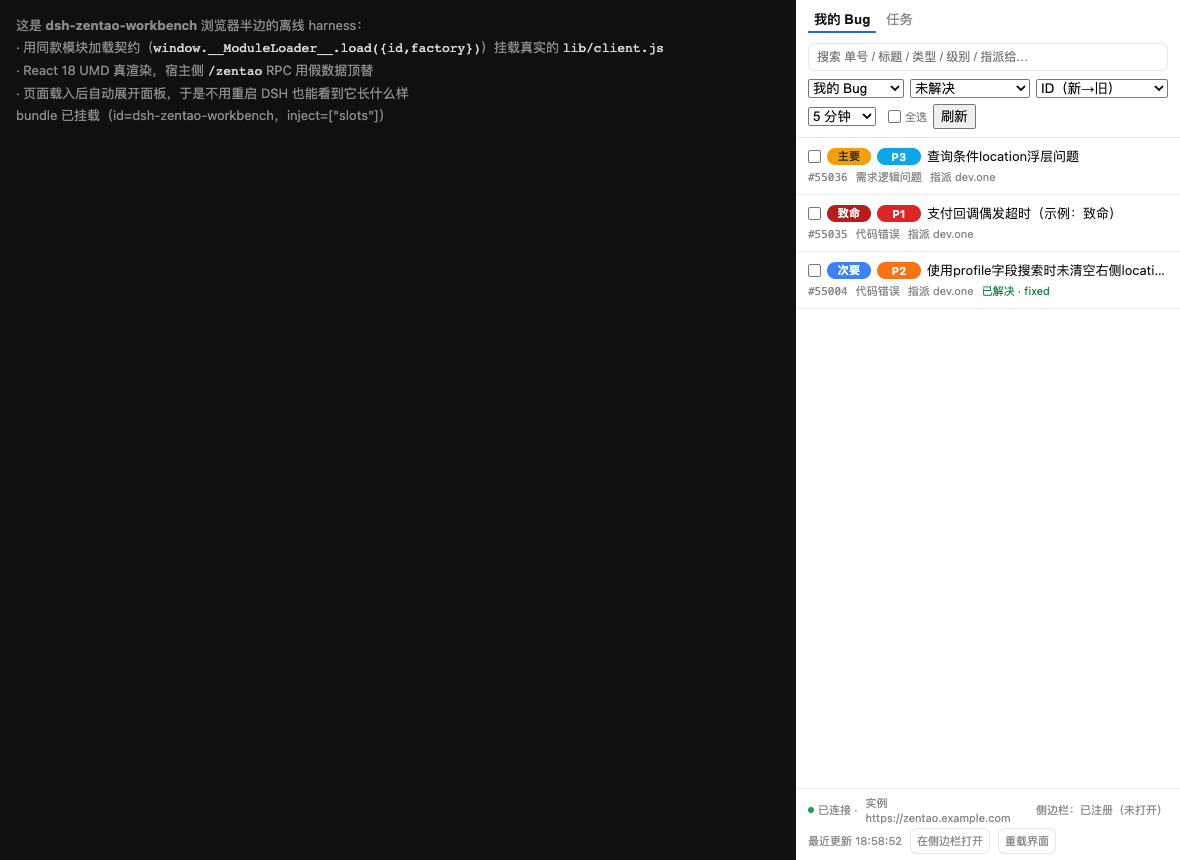
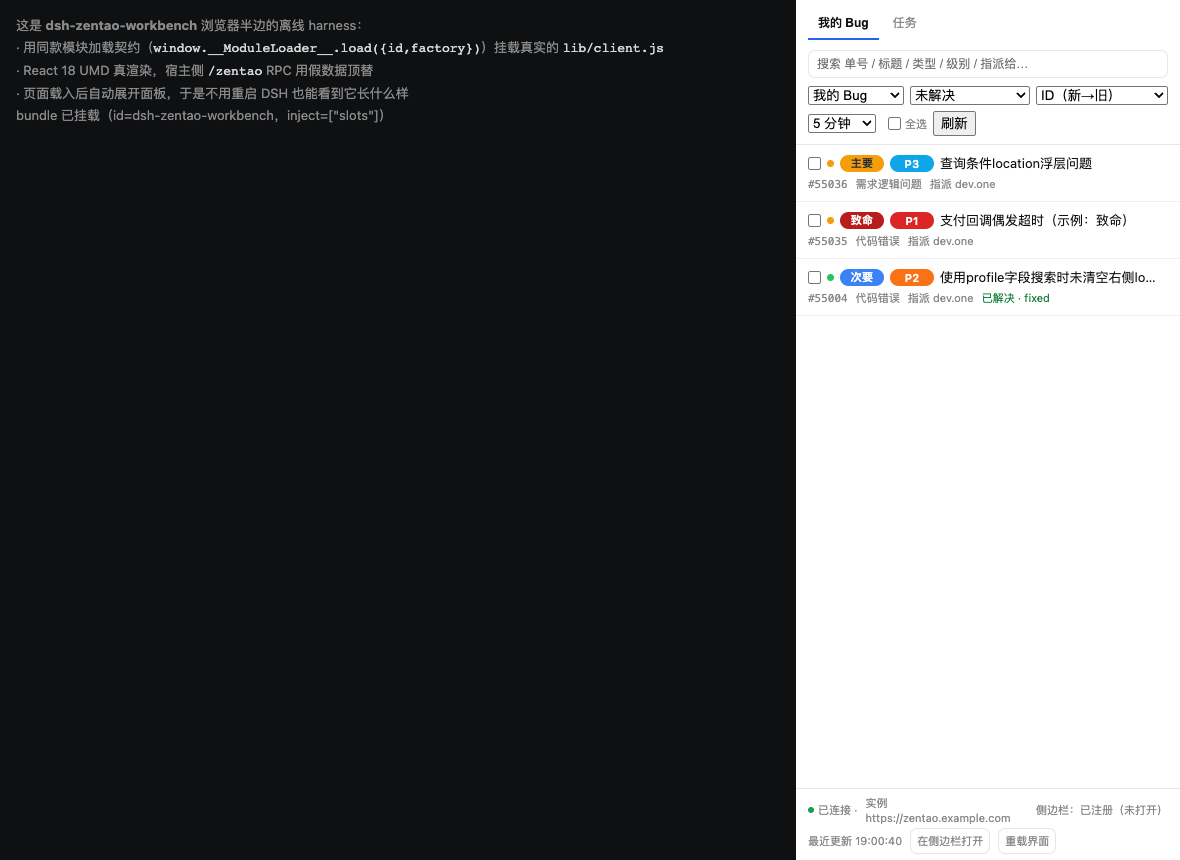
UI 再打磨：列表行重排 + 状态点 + 勾选高亮 + 页签分段控件 + 详情 chips
用户要求「列表再打磨，UI 再优化」。本轮都是观感与信息层级，不改行为。

列表：
- 行改**两行结构**：第一行 = 复选框 · 状态点 · 级别胶囊 · P 胶囊 · 标题 · hover 出现的 ›；
  第二行 = `#单号`（等宽字体） · 类型 · 指派 · 已解决·方案；
- 新增**状态点**（未解决=琥珀、已解决=绿，tooltip 说明），替代原来靠文字判断；
- **勾选行整行淡蓝高亮**（`.zt-row-on`），多选时一眼看出选了哪些；
- 行 hover 高亮 + 行尾出现 `›` 提示可点开；
- **空态**：区分"没取到 Bug（查登录/范围）"、"这一页没有符合条件的"、"没有匹配「关键词」的 Bug"。

整体：
- 页签（我的 Bug / 任务）从纯文本按钮改为**分段控件**（hover 底色 + 选中下划线加粗），
  样式移进 PANEL_CSS（内联样式表达不了 hover/选中态）；
- 详情的「必填：A、B、C」长句改为 **chips**：`必填 4`（警示色）+ 每个必填项一个 chip +
  `下拉 254/892/892` 一个 chip（tooltip 说明含义）——信息密度更高、不再是三行文字；
- 描述改为圆角卡片（`.zt-desc`，浅底 + 10px 圆角），历史改为**左侧竖线**样式（`.zt-hist`），
  与正文层次分明。

验证（真浏览器）：3 行 3 个状态点、勾选后 `.zt-row-on` 命中且批量栏出现、动作区仍在描述之上、
P 徽章三色、计划字段 HTML 按标签渲染且页面无裸标签、样式表注入、无页面报错。
vitest 113/113（断言同步到 chips 版文案）。截图 docs/panel-list-polish.png、docs/panel-ui-polish.png。

Changed region(s): [[0.6712, 0.0, 1.0, 0.3628], [0.7322, 0.9674, 0.7627, 0.9977]]

diff --git a/lib/client.js b/lib/client.js
@@ -380,6 +380,22 @@ const PANEL_CSS = `
 .zt-sec { padding: 10px 12px; border-bottom: 1px solid var(--dsw-alias-border-l1, #eceff3); }
 .zt-label { font-size: 11px; color: var(--dsw-alias-label-secondary, #888); margin-bottom: 4px; }
 .zt-actions { display: flex; gap: 6px; flex-wrap: wrap; align-items: center; }
+.zt-tabs { display: flex; gap: 2px; padding: 6px 10px 0; }
+.zt-tab { border: none; background: none; color: var(--dsw-alias-label-secondary, #888); font-size: 12px; padding: 6px 10px 7px; cursor: pointer; border-bottom: 2px solid transparent; border-radius: 6px 6px 0 0; }
+.zt-tab:hover { background: color-mix(in srgb, var(--dsw-alias-label-primary, #111) 5%, transparent); }
+.zt-tab-on { color: var(--dsw-alias-label-primary, #111); font-weight: 600; border-bottom-color: #2563eb; }
+.zt-dot { width: 7px; height: 7px; border-radius: 999px; flex: 0 0 auto; }
+.zt-dot-open { background: #f59e0b; }
+.zt-dot-done { background: #22c55e; }
+.zt-row-on { background: color-mix(in srgb, #2563eb 8%, transparent); }
+.zt-chev { opacity: 0; transition: opacity .12s ease; color: var(--dsw-alias-label-secondary, #888); font-size: 12px; }
+.zt-row:hover .zt-chev { opacity: 1; }
+.zt-chips { display: flex; gap: 6px; flex-wrap: wrap; align-items: center; margin-top: 4px; }
+.zt-chip { display: inline-flex; align-items: center; gap: 4px; height: 20px; padding: 0 8px; border-radius: 6px; font-size: 11px; background: color-mix(in srgb, var(--dsw-alias-label-primary, #111) 5%, transparent); color: var(--dsw-alias-label-secondary, #777); }
+.zt-chip-warn { background: color-mix(in srgb, #f59e0b 18%, transparent); color: #92400e; }
+.zt-hist { margin-top: 6px; padding-left: 8px; border-left: 2px solid var(--dsw-alias-border-l1, #eceff3); color: var(--dsw-alias-label-secondary, #888); font-size: 11px; line-height: 1.6; }
+.zt-desc { font-size: 12px; line-height: 1.65; border: 1px solid var(--dsw-alias-border-l1, #eceff3); border-radius: 10px; padding: 10px 12px; overflow-x: auto; background: color-mix(in srgb, var(--dsw-alias-label-primary, #111) 2%, transparent); }
+.zt-empty { padding: 28px 16px; text-align: center; color: var(--dsw-alias-label-secondary, #888); font-size: 12px; line-height: 1.8; }
 .zt-bar { display: flex; gap: 6px; align-items: center; flex-wrap: wrap; padding: 8px 12px; border-bottom: 1px solid var(--dsw-alias-border-l1, #eceff3); }
 `;
 const ROLE_PRESETS = [
@@ -923,15 +939,9 @@ function ZentaoPanel(deps) {
             type: 'button',
             'data-zentao-tab': value,
             onClick: () => setTab(value),
-            style: {
-                cursor: 'pointer',
-                border: 'none',
-                background: 'none',
-                color: tab === value ? TOKEN.text : TOKEN.dim,
-                fontWeight: tab === value ? 600 : 400,
-                borderBottom: tab === value ? `2px solid ${TOKEN.accent}` : '2px solid transparent',
-                padding: '2px 6px',
-            },
+            className: tab === value ? 'zt-tab zt-tab-on' : 'zt-tab',
+            // 样式（hover/选中态）在 PANEL_CSS 里，内联样式表达不了。
+            style: { cursor: 'pointer' },
         }, value === 'bugs' ? '我的 Bug' : '任务'))));
         if (tab === 'tasks') {
             body.push((0, react_1.createElement)('div', { key: 'tasks', 'data-zentao-tasks': '1', style: { padding: '10px 12px', flex: 1, minHeight: 0, overflowY: 'auto' } }, ...tasks.map((task) => (0, react_1.createElement)('div', { key: task.id, style: { padding: '6px 0', borderBottom: `1px solid ${TOKEN.line}` } }, (0, react_1.createElement)('div', null, `#${task.id} ${task.name}`), (0, react_1.createElement)('div', { style: { color: TOKEN.dim, fontSize: 11 } }, `${task.status || '-'} · 指派 ${task.assignedTo || '-'}`))), tasks.length === 0
@@ -1103,16 +1113,16 @@ function ZentaoPanel(deps) {
                     target: '_blank',
                     rel: 'noreferrer',
                     style: { color: TOKEN.accent },
-                }, selected.bug.story ?? '')), detailActions, (0, react_1.createElement)('div', { style: { fontSize: 12 } }, `必填：${selected.resolve.fields.filter((field) => field.required).map((field) => field.label).join('、')}`), (0, react_1.createElement)('div', { style: { fontSize: 12, color: TOKEN.dim, marginTop: 2 } }, `下拉规模 ${selected.resolve.optionCounts.resolvedBuild}/${selected.resolve.optionCounts.bugInchargedBy}/${selected.resolve.optionCounts.assignedTo}（已收敛）`), ...(richDescription.trim() === ''
+                }, selected.bug.story ?? '')), detailActions, (0, react_1.createElement)('div', { className: 'zt-chips' }, (0, react_1.createElement)('span', { className: 'zt-chip zt-chip-warn', title: '服务端必填项数量' }, `必填 ${selected.resolve.fields.filter((field) => field.required).length}`), ...selected.resolve.fields.filter((field) => field.required).map((field) => (0, react_1.createElement)('span', { key: field.name, className: 'zt-chip' }, field.label)), (0, react_1.createElement)('span', { className: 'zt-chip', title: '下拉规模：解决版本 / Bug所属人 / 指派给' }, `下拉 ${selected.resolve.optionCounts.resolvedBuild}/${selected.resolve.optionCounts.bugInchargedBy}/${selected.resolve.optionCounts.assignedTo}`)), ...(richDescription.trim() === ''
                 ? []
                 : [(0, react_1.createElement)('div', { key: 'desc', style: { marginTop: 8 } }, (0, react_1.createElement)('div', { style: { color: TOKEN.dim, fontSize: 11, marginBottom: 2 } }, '描述（富文本，图片已内联）'), (0, react_1.createElement)('div', {
                         // Sanitised host-side (scripts/handlers/javascript: removed) and
                         // rendered as HTML so tables, lists and screenshots show properly.
                         'data-zentao-description': '1',
                         dangerouslySetInnerHTML: { __html: richDescription },
-                        style: { fontSize: 12, lineHeight: 1.6, border: `1px solid ${TOKEN.line}`, borderRadius: 6, padding: '8px 10px', overflowX: 'auto' },
+                        className: 'zt-desc',
                     }, null))]), ...(selected.histories.length > 0
-                ? [(0, react_1.createElement)('div', { key: 'hist', style: { marginTop: 6, fontSize: 12, color: TOKEN.dim } }, (0, react_1.createElement)('div', { style: { fontSize: 11, marginBottom: 2 } }, '最近动态（按 HTML 渲染）'), ...selected.histories.map((line, index) => (0, react_1.createElement)('div', {
+                ? [(0, react_1.createElement)('div', { key: 'hist', className: 'zt-hist' }, (0, react_1.createElement)('div', { style: { fontSize: 11, marginBottom: 2, opacity: .8 } }, '最近动态'), ...selected.histories.map((line, index) => (0, react_1.createElement)('div', {
                         key: index,
                         // Rendered, not escaped: the host already stripped scripts and
                         // handlers, and the point is that a diff's markup shows as markup.
@@ -1124,7 +1134,9 @@ function ZentaoPanel(deps) {
                 key: 'list',
                 'data-zentao-list': '1',
                 style: { position: 'absolute', inset: 0, overflowY: 'auto' },
-            }, ...visibleBugs.map((bug) => (0, react_1.createElement)('div', {
+            }, ...(visibleBugs.length > 0 ? [] : [(0, react_1.createElement)('div', { key: 'empty', className: 'zt-empty' }, search.trim() === ''
+                    ? (bugs.length === 0 ? '没有取到 Bug（检查登录状态或范围）' : '这一页没有符合条件的 Bug')
+                    : `没有匹配「${search.trim()}」的 Bug`)]), ...visibleBugs.map((bug) => (0, react_1.createElement)('div', {
                 key: bug.id,
                 'data-zentao-bug': bug.id,
                 draggable: true,
@@ -1136,7 +1148,7 @@ function ZentaoPanel(deps) {
                     }));
                 },
                 onClick: () => void openDetail(bug.id),
-                className: 'zt-row',
+                className: checked.includes(bug.id) ? 'zt-row zt-row-on' : 'zt-row',
             }, (0, react_1.createElement)('div', { style: { display: 'flex', gap: 6, alignItems: 'center' } }, (0, react_1.createElement)('input', {
                 type: 'checkbox',
                 'data-zentao-check': bug.id,
@@ -1146,7 +1158,10 @@ function ZentaoPanel(deps) {
                 onClick: (event) => event.stopPropagation?.(),
                 onChange: () => toggleChecked(bug.id),
                 style: { cursor: 'pointer', margin: 0 },
-            }), severityBadge(bug.severity || '', bug.severityLevel), priBadge(bug.pri), (0, react_1.createElement)('span', { style: { flex: 1, overflow: 'hidden', textOverflow: 'ellipsis', whiteSpace: 'nowrap' } }, bug.title)), (0, react_1.createElement)('div', { className: 'zt-meta' }, (0, react_1.createElement)('span', { className: 'zt-id' }, `#${bug.id}`), (0, react_1.createElement)('span', null, bug.type || '未分类'), (0, react_1.createElement)('span', null, `指派 ${bug.assignedTo || '未指派'}`), bug.resolution === '' ? null : (0, react_1.createElement)('span', { className: 'zt-ok' }, `已解决 · ${bug.resolution}`))))), detailOverlay));
+            }), (0, react_1.createElement)('span', {
+                className: bug.resolution === '' ? 'zt-dot zt-dot-open' : 'zt-dot zt-dot-done',
+                title: bug.resolution === '' ? '未解决' : `已解决（${bug.resolution}）`,
+            }, null), severityBadge(bug.severity || '', bug.severityLevel), priBadge(bug.pri), (0, react_1.createElement)('span', { style: { flex: 1, overflow: 'hidden', textOverflow: 'ellipsis', whiteSpace: 'nowrap' } }, bug.title), (0, react_1.createElement)('span', { className: 'zt-chev' }, '›')), (0, react_1.createElement)('div', { className: 'zt-meta' }, (0, react_1.createElement)('span', { className: 'zt-id' }, `#${bug.id}`), (0, react_1.createElement)('span', null, bug.type || '未分类'), (0, react_1.createElement)('span', null, bug.assignedTo ? `指派 ${bug.assignedTo}` : '未指派'), bug.resolution === '' ? null : (0, react_1.createElement)('span', { className: 'zt-ok' }, `已解决 · ${bug.resolution}`))))), detailOverlay));
         }
     }
     const stamp = lastUpdated === null ? '尚未刷新' : `最近更新 ${lastUpdated.toLocaleTimeString()}`;

diff --git a/src/client/panel.ts b/src/client/panel.ts
@@ -210,6 +210,22 @@ const PANEL_CSS = `
 .zt-sec { padding: 10px 12px; border-bottom: 1px solid var(--dsw-alias-border-l1, #eceff3); }
 .zt-label { font-size: 11px; color: var(--dsw-alias-label-secondary, #888); margin-bottom: 4px; }
 .zt-actions { display: flex; gap: 6px; flex-wrap: wrap; align-items: center; }
+.zt-tabs { display: flex; gap: 2px; padding: 6px 10px 0; }
+.zt-tab { border: none; background: none; color: var(--dsw-alias-label-secondary, #888); font-size: 12px; padding: 6px 10px 7px; cursor: pointer; border-bottom: 2px solid transparent; border-radius: 6px 6px 0 0; }
+.zt-tab:hover { background: color-mix(in srgb, var(--dsw-alias-label-primary, #111) 5%, transparent); }
+.zt-tab-on { color: var(--dsw-alias-label-primary, #111); font-weight: 600; border-bottom-color: #2563eb; }
+.zt-dot { width: 7px; height: 7px; border-radius: 999px; flex: 0 0 auto; }
+.zt-dot-open { background: #f59e0b; }
+.zt-dot-done { background: #22c55e; }
+.zt-row-on { background: color-mix(in srgb, #2563eb 8%, transparent); }
+.zt-chev { opacity: 0; transition: opacity .12s ease; color: var(--dsw-alias-label-secondary, #888); font-size: 12px; }
+.zt-row:hover .zt-chev { opacity: 1; }
+.zt-chips { display: flex; gap: 6px; flex-wrap: wrap; align-items: center; margin-top: 4px; }
+.zt-chip { display: inline-flex; align-items: center; gap: 4px; height: 20px; padding: 0 8px; border-radius: 6px; font-size: 11px; background: color-mix(in srgb, var(--dsw-alias-label-primary, #111) 5%, transparent); color: var(--dsw-alias-label-secondary, #777); }
+.zt-chip-warn { background: color-mix(in srgb, #f59e0b 18%, transparent); color: #92400e; }
+.zt-hist { margin-top: 6px; padding-left: 8px; border-left: 2px solid var(--dsw-alias-border-l1, #eceff3); color: var(--dsw-alias-label-secondary, #888); font-size: 11px; line-height: 1.6; }
+.zt-desc { font-size: 12px; line-height: 1.65; border: 1px solid var(--dsw-alias-border-l1, #eceff3); border-radius: 10px; padding: 10px 12px; overflow-x: auto; background: color-mix(in srgb, var(--dsw-alias-label-primary, #111) 2%, transparent); }
+.zt-empty { padding: 28px 16px; text-align: center; color: var(--dsw-alias-label-secondary, #888); font-size: 12px; line-height: 1.8; }
 .zt-bar { display: flex; gap: 6px; align-items: center; flex-wrap: wrap; padding: 8px 12px; border-bottom: 1px solid var(--dsw-alias-border-l1, #eceff3); }
 `
 
@@ -751,15 +767,9 @@ export function ZentaoPanel(deps: PanelDeps): ReactNode {
         type: 'button',
         'data-zentao-tab': value,
         onClick: () => setTab(value),
-        style: {
-          cursor: 'pointer',
-          border: 'none',
-          background: 'none',
-          color: tab === value ? TOKEN.text : TOKEN.dim,
-          fontWeight: tab === value ? 600 : 400,
-          borderBottom: tab === value ? `2px solid ${TOKEN.accent}` : '2px solid transparent',
-          padding: '2px 6px',
-        },
+        className: tab === value ? 'zt-tab zt-tab-on' : 'zt-tab',
+        // 样式（hover/选中态）在 PANEL_CSS 里，内联样式表达不了。
+        style: { cursor: 'pointer' },
       }, value === 'bugs' ? '我的 Bug' : '任务'))))
 
     if (tab === 'tasks') {
@@ -997,10 +1007,13 @@ export function ZentaoPanel(deps: PanelDeps): ReactNode {
                 style: { color: TOKEN.accent },
               }, selected.bug.story ?? '')),
         detailActions,
-        createElement('div', { style: { fontSize: 12 } },
-          `必填：${selected.resolve.fields.filter((field) => field.required).map((field) => field.label).join('、')}`),
-        createElement('div', { style: { fontSize: 12, color: TOKEN.dim, marginTop: 2 } },
-          `下拉规模 ${selected.resolve.optionCounts.resolvedBuild}/${selected.resolve.optionCounts.bugInchargedBy}/${selected.resolve.optionCounts.assignedTo}（已收敛）`),
+        createElement('div', { className: 'zt-chips' },
+          createElement('span', { className: 'zt-chip zt-chip-warn', title: '服务端必填项数量' },
+            `必填 ${selected.resolve.fields.filter((field) => field.required).length}`),
+          ...selected.resolve.fields.filter((field) => field.required).map((field) =>
+            createElement('span', { key: field.name, className: 'zt-chip' }, field.label)),
+          createElement('span', { className: 'zt-chip', title: '下拉规模：解决版本 / Bug所属人 / 指派给' },
+            `下拉 ${selected.resolve.optionCounts.resolvedBuild}/${selected.resolve.optionCounts.bugInchargedBy}/${selected.resolve.optionCounts.assignedTo}`)),
         ...(richDescription.trim() === ''
           ? []
           : [createElement('div', { key: 'desc', style: { marginTop: 8 } },
@@ -1010,11 +1023,11 @@ export function ZentaoPanel(deps: PanelDeps): ReactNode {
                 // rendered as HTML so tables, lists and screenshots show properly.
                 'data-zentao-description': '1',
                 dangerouslySetInnerHTML: { __html: richDescription },
-                style: { fontSize: 12, lineHeight: 1.6, border: `1px solid ${TOKEN.line}`, borderRadius: 6, padding: '8px 10px', overflowX: 'auto' },
+                className: 'zt-desc',
               }, null))]),
         ...(selected.histories.length > 0
-          ? [createElement('div', { key: 'hist', style: { marginTop: 6, fontSize: 12, color: TOKEN.dim } },
-              createElement('div', { style: { fontSize: 11, marginBottom: 2 } }, '最近动态（按 HTML 渲染）'),
+          ? [createElement('div', { key: 'hist', className: 'zt-hist' },
+              createElement('div', { style: { fontSize: 11, marginBottom: 2, opacity: .8 } }, '最近动态'),
               ...selected.histories.map((line, index) => createElement('div', {
                 key: index,
                 // Rendered, not escaped: the host already stripped scripts and
@@ -1033,6 +1046,10 @@ export function ZentaoPanel(deps: PanelDeps): ReactNode {
           'data-zentao-list': '1',
           style: { position: 'absolute', inset: 0, overflowY: 'auto' },
         },
+      ...(visibleBugs.length > 0 ? [] : [createElement('div', { key: 'empty', className: 'zt-empty' },
+        search.trim() === ''
+          ? (bugs.length === 0 ? '没有取到 Bug（检查登录状态或范围）' : '这一页没有符合条件的 Bug')
+          : `没有匹配「${search.trim()}」的 Bug`)]),
       ...visibleBugs.map((bug) => createElement('div', {
         key: bug.id,
         'data-zentao-bug': bug.id,
@@ -1045,7 +1062,7 @@ export function ZentaoPanel(deps: PanelDeps): ReactNode {
           }))
         },
         onClick: () => void openDetail(bug.id),
-        className: 'zt-row',
+        className: checked.includes(bug.id) ? 'zt-row zt-row-on' : 'zt-row',
       },
       createElement('div', { style: { display: 'flex', gap: 6, alignItems: 'center' } },
         createElement('input', {
@@ -1058,13 +1075,18 @@ export function ZentaoPanel(deps: PanelDeps): ReactNode {
           onChange: () => toggleChecked(bug.id),
           style: { cursor: 'pointer', margin: 0 },
         }),
+        createElement('span', {
+          className: bug.resolution === '' ? 'zt-dot zt-dot-open' : 'zt-dot zt-dot-done',
+          title: bug.resolution === '' ? '未解决' : `已解决（${bug.resolution}）`,
+        }, null),
         severityBadge(bug.severity || '', bug.severityLevel),
         priBadge(bug.pri),
-        createElement('span', { style: { flex: 1, overflow: 'hidden', textOverflow: 'ellipsis', whiteSpace: 'nowrap' } }, bug.title)),
+        createElement('span', { style: { flex: 1, overflow: 'hidden', textOverflow: 'ellipsis', whiteSpace: 'nowrap' } }, bug.title),
+        createElement('span', { className: 'zt-chev' }, '›')),
       createElement('div', { className: 'zt-meta' },
         createElement('span', { className: 'zt-id' }, `#${bug.id}`),
         createElement('span', null, bug.type || '未分类'),
-        createElement('span', null, `指派 ${bug.assignedTo || '未指派'}`),
+        createElement('span', null, bug.assignedTo ? `指派 ${bug.assignedTo}` : '未指派'),
         bug.resolution === '' ? null : createElement('span', { className: 'zt-ok' }, `已解决 · ${bug.resolution}`))))),
         detailOverlay))
     }

diff --git a/tests/client-panel.spec.ts b/tests/client-panel.spec.ts
@@ -549,8 +549,10 @@ describe('panel behaviour (compiled bundle, minimal hooks runtime)', () => {
 
     expect(calls).toContain('bugContext')
     const text = textOf(tree).join(' ')
-    expect(text).toContain('必填：代码变更影响范围')
-    expect(text).toContain('下拉规模 254/892/892')
+    // Required fields are chips now (count + labels) instead of a 「必填：…」 line.
+    expect(text).toContain('必填')
+    expect(text).toContain('代码变更影响范围')
+    expect(text).toContain('下拉 254/892/892')
     // The drag payload must carry a real origin, not a placeholder host.
     const payloads: string[] = []
     ;(row.props.onDragStart as (event: unknown) => void)({ dataTransfer: { setData: (_type: string, value: string) => payloads.push(value) } })
